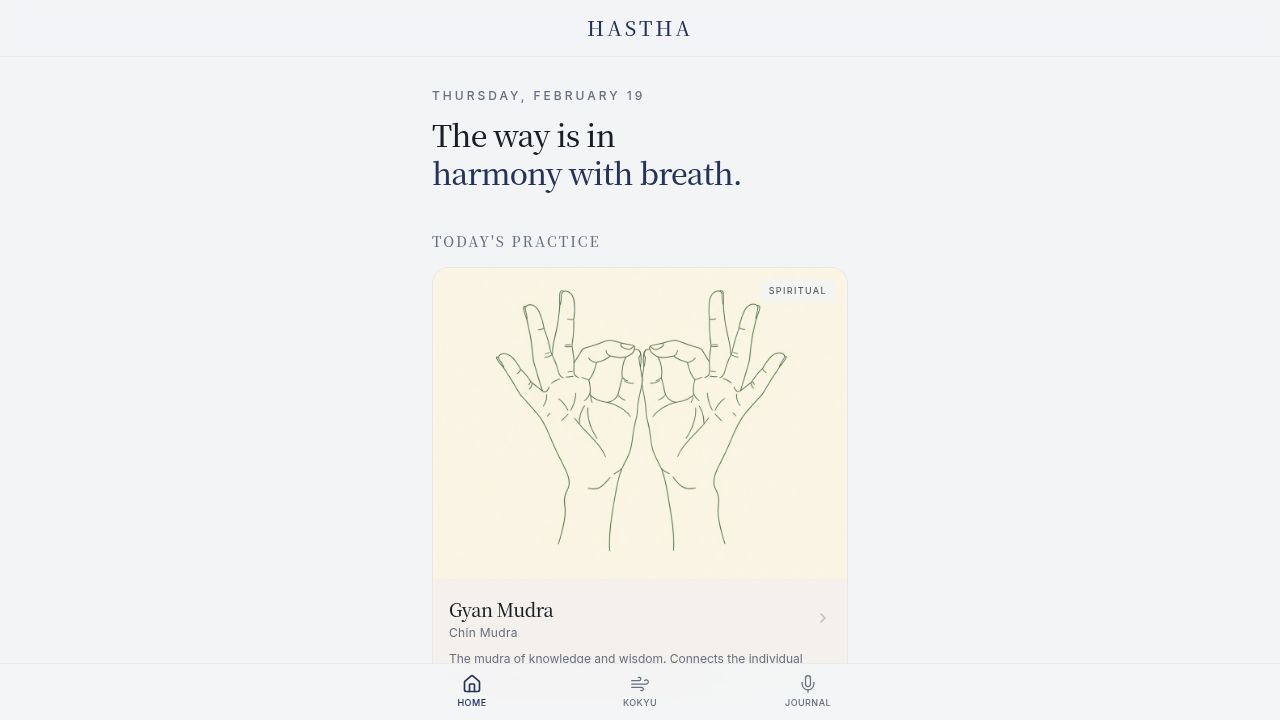
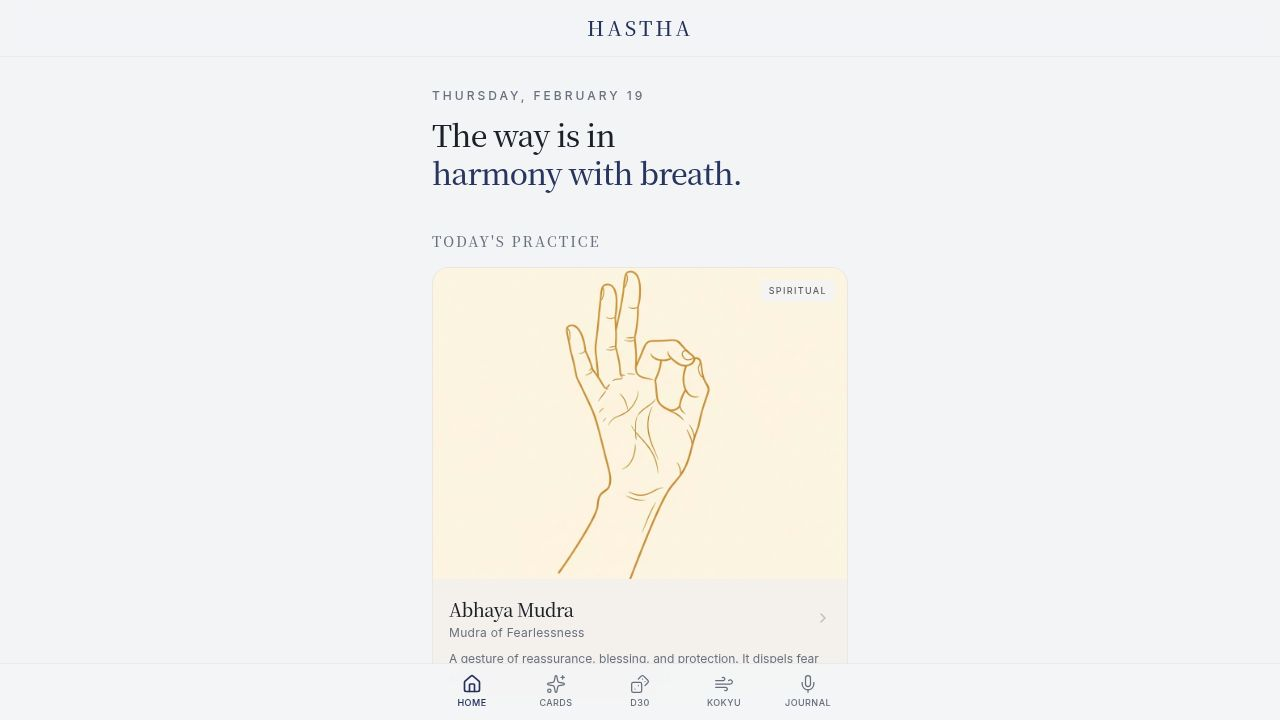
Add a playful dice rolling game with animated number effects
Introduces a new D30 dice rolling page with animated dice and numbers, including route and navigation updates, and a home screen button.

Replit-Commit-Author: Agent
Replit-Commit-Session-Id: 47a25048-172a-4b0e-a1c5-42eafa79980c
Replit-Commit-Checkpoint-Type: intermediate_checkpoint
Replit-Commit-Event-Id: 3bfcbb05-98d3-4b42-a8bc-756ac80385b9
Replit-Commit-Screenshot-Url: https://storage.googleapis.com/screenshot-production-us-central1/68716713-2074-42c7-ad7d-4be60a2e7a4c/47a25048-172a-4b0e-a1c5-42eafa79980c/P8nFYIm
Replit-Helium-Checkpoint-Created: true

Changed region(s): [[0.375, 0.3667, 0.625, 0.7944], [0.3438, 0.825, 0.5312, 0.9778], [0.5625, 0.8861, 0.625, 0.9778]]

diff --git a/client/src/pages/Dice.tsx b/client/src/pages/Dice.tsx
@@ -1,0 +1,219 @@
+import { useState, useCallback } from "react";
+import { motion, AnimatePresence } from "framer-motion";
+import { Dices } from "lucide-react";
+import { Button } from "@/components/ui/button";
+import Layout from "@/components/Layout";
+
+function D30Shape({ rolling }: { rolling: boolean }) {
+  return (
+    <motion.div
+      className="relative w-40 h-40 mx-auto"
+      animate={
+        rolling
+          ? {
+              rotateX: [0, 360, 720, 1080],
+              rotateY: [0, -180, -360, -540],
+              rotateZ: [0, 90, 180, 270],
+              scale: [1, 0.85, 1.1, 0.9, 1],
+            }
+          : {}
+      }
+      transition={{ duration: 1.6, ease: "easeInOut" }}
+      style={{ perspective: 800 }}
+    >
+      <svg viewBox="0 0 200 200" className="w-full h-full drop-shadow-lg">
+        <defs>
+          <linearGradient id="diceFace" x1="0%" y1="0%" x2="100%" y2="100%">
+            <stop offset="0%" stopColor="hsl(var(--primary))" stopOpacity="0.15" />
+            <stop offset="100%" stopColor="hsl(var(--primary))" stopOpacity="0.08" />
+          </linearGradient>
+          <linearGradient id="diceSide" x1="0%" y1="0%" x2="100%" y2="100%">
+            <stop offset="0%" stopColor="hsl(var(--primary))" stopOpacity="0.25" />
+            <stop offset="100%" stopColor="hsl(var(--primary))" stopOpacity="0.12" />
+          </linearGradient>
+        </defs>
+        <polygon
+          points="100,15 175,55 175,145 100,185 25,145 25,55"
+          fill="url(#diceFace)"
+          stroke="hsl(var(--primary))"
+          strokeWidth="1.5"
+          strokeOpacity="0.4"
+        />
+        <line x1="100" y1="15" x2="100" y2="185" stroke="hsl(var(--primary))" strokeWidth="0.5" strokeOpacity="0.15" />
+        <line x1="25" y1="55" x2="175" y2="145" stroke="hsl(var(--primary))" strokeWidth="0.5" strokeOpacity="0.15" />
+        <line x1="175" y1="55" x2="25" y2="145" stroke="hsl(var(--primary))" strokeWidth="0.5" strokeOpacity="0.15" />
+        <polygon
+          points="100,15 175,55 100,100 25,55"
+          fill="url(#diceSide)"
+          stroke="hsl(var(--primary))"
+          strokeWidth="0.5"
+          strokeOpacity="0.2"
+        />
+        <text
+          x="100"
+          y="108"
+          textAnchor="middle"
+          className="fill-primary/30 font-serif"
+          fontSize="14"
+          letterSpacing="2"
+        >
+          D30
+        </text>
+      </svg>
+    </motion.div>
+  );
+}
+
+function NumberSpread({ result, rollKey }: { result: number; rollKey: number }) {
+  const numbers = Array.from({ length: 30 }, (_, i) => i + 1);
+
+  return (
+    <div className="relative h-16 overflow-hidden mx-auto w-full max-w-[360px]">
+      <div className="absolute inset-0 pointer-events-none z-10"
+        style={{
+          background: "linear-gradient(to right, hsl(var(--background)) 0%, transparent 15%, transparent 85%, hsl(var(--background)) 100%)"
+        }}
+      />
+      <motion.div
+        className="flex items-center justify-center h-full gap-0"
+        initial={{ opacity: 0 }}
+        animate={{ opacity: 1 }}
+        transition={{ duration: 0.4 }}
+      >
+        {numbers.map((n) => {
+          const distance = Math.abs(n - result);
+          const maxDistance = 8;
+          const normalizedDistance = Math.min(distance, maxDistance) / maxDistance;
+          const opacity = Math.max(0.04, 1 - normalizedDistance * 1.1);
+          const scale = Math.max(0.5, 1 - normalizedDistance * 0.5);
+          const offsetX = (n - result) * 28;
+          const isResult = n === result;
+
+          return (
+            <motion.span
+              key={`${rollKey}-${n}`}
+              className={`absolute font-serif tabular-nums select-none ${
+                isResult ? "text-foreground font-bold" : "text-foreground/80"
+              }`}
+              style={{
+                fontSize: isResult ? "36px" : `${Math.max(12, 24 - distance * 3)}px`,
+              }}
+              initial={{
+                opacity: 0,
+                x: offsetX + (n < result ? -40 : n > result ? 40 : 0),
+                scale: 0.3,
+              }}
+              animate={{
+                opacity,
+                x: offsetX,
+                scale,
+              }}
+              transition={{
+                duration: 0.7,
+                delay: isResult ? 0 : 0.05 + distance * 0.04,
+                ease: "easeOut",
+              }}
+            >
+              {n}
+            </motion.span>
+          );
+        })}
+      </motion.div>
+    </div>
+  );
+}
+
+export default function DicePage() {
+  const [result, setResult] = useState<number | null>(null);
+  const [rolling, setRolling] = useState(false);
+  const [rollKey, setRollKey] = useState(0);
+  const [history, setHistory] = useState<number[]>([]);
+
+  const handleRoll = useCallback(() => {
+    if (rolling) return;
+    setRolling(true);
+    setResult(null);
+
+    setTimeout(() => {
+      const roll = Math.floor(Math.random() * 30) + 1;
+      setResult(roll);
+      setRollKey((k) => k + 1);
+      setHistory((h) => [roll, ...h.slice(0, 9)]);
+      setRolling(false);
+    }, 1600);
+  }, [rolling]);
+
+  return (
+    <Layout>
+      <div className="space-y-8 animate-in fade-in duration-700">
+        <div className="pt-4 pb-2 text-center">
+          <p className="text-xs text-muted-foreground uppercase tracking-[0.25em] font-medium mb-3">
+            Sacred Chance
+          </p>
+          <h2 className="text-2xl font-serif text-foreground leading-tight tracking-tight">
+            D30
+          </h2>
+          <p className="text-xs text-muted-foreground mt-2 max-w-[260px] mx-auto leading-relaxed">
+            Let go of intention. Roll the die and receive your number.
+          </p>
+        </div>
+
+        <div className="min-h-[80px] flex items-center justify-center">
+          <AnimatePresence mode="wait">
+            {result && !rolling && (
+              <NumberSpread result={result} rollKey={rollKey} />
+            )}
+          </AnimatePresence>
+          {!result && !rolling && (
+            <p className="text-xs text-muted-foreground italic">
+              Roll the die to receive your number.
+            </p>
+          )}
+          {rolling && (
+            <motion.div
+              className="flex items-center gap-2 text-muted-foreground"
+              animate={{ opacity: [0.4, 1, 0.4] }}
+              transition={{ duration: 0.8, repeat: Infinity }}
+            >
+              <span className="text-xs uppercase tracking-[0.2em]">Rolling...</span>
+            </motion.div>
+          )}
+        </div>
+
+        <D30Shape rolling={rolling} />
+
+        <div className="flex justify-center">
+          <Button
+            onClick={handleRoll}
+            disabled={rolling}
+            className="gap-2 px-8"
+            data-testid="button-roll-dice"
+          >
+            <Dices className="w-4 h-4" />
+            {rolling ? "Rolling..." : result ? "Roll Again" : "Roll the Die"}
+          </Button>
+        </div>
+
+        {history.length > 1 && (
+          <div className="text-center space-y-2">
+            <h3 className="text-[10px] uppercase tracking-[0.2em] text-muted-foreground font-medium">
+              Recent Rolls
+            </h3>
+            <div className="flex items-center justify-center gap-3 flex-wrap">
+              {history.slice(1).map((n, i) => (
+                <motion.span
+                  key={`h-${i}-${n}`}
+                  initial={{ opacity: 0, scale: 0.5 }}
+                  animate={{ opacity: Math.max(0.2, 1 - i * 0.1), scale: 1 }}
+                  className="text-sm font-serif text-muted-foreground tabular-nums"
+                >
+                  {n}
+                </motion.span>
+              ))}
+            </div>
+          </div>
+        )}
+      </div>
+    </Layout>
+  );
+}

diff --git a/client/src/pages/Home.tsx b/client/src/pages/Home.tsx
@@ -38,7 +38,7 @@ export default function Home() {
           ) : null}
         </section>
 
-        <section className="grid grid-cols-3 gap-3">
+        <section className="grid grid-cols-2 gap-3">
           <Link href="/angel-cards" className="group bg-card hover:bg-primary/5 transition-all duration-300 p-5 rounded-lg flex flex-col items-center text-center gap-3 border border-border/50 hover:border-primary/20" data-testid="link-angel-cards">
               <div className="w-10 h-10 rounded-full bg-primary/8 text-primary flex items-center justify-center">
                 <svg width="20" height="20" viewBox="0 0 24 24" fill="none" stroke="currentColor" strokeWidth="1.5">
@@ -48,6 +48,23 @@ export default function Home() {
               <div>
                 <span className="block text-sm font-medium text-foreground">Cards</span>
                 <span className="text-[10px] text-muted-foreground tracking-wide">Guidance</span>
+              </div>
+          </Link>
+
+          <Link href="/dice" className="group bg-card hover:bg-primary/5 transition-all duration-300 p-5 rounded-lg flex flex-col items-center text-center gap-3 border border-border/50 hover:border-primary/20" data-testid="link-dice">
+              <div className="w-10 h-10 rounded-full bg-primary/8 text-primary flex items-center justify-center">
+                <svg width="20" height="20" viewBox="0 0 24 24" fill="none" stroke="currentColor" strokeWidth="1.5">
+                  <rect x="2" y="2" width="20" height="20" rx="3" />
+                  <circle cx="8" cy="8" r="1.5" fill="currentColor" />
+                  <circle cx="16" cy="8" r="1.5" fill="currentColor" />
+                  <circle cx="12" cy="12" r="1.5" fill="currentColor" />
+                  <circle cx="8" cy="16" r="1.5" fill="currentColor" />
+                  <circle cx="16" cy="16" r="1.5" fill="currentColor" />
+                </svg>
+              </div>
+              <div>
+                <span className="block text-sm font-medium text-foreground">D30</span>
+                <span className="text-[10px] text-muted-foreground tracking-wide">Sacred Chance</span>
               </div>
           </Link>
 

diff --git a/client/src/components/Layout.tsx b/client/src/components/Layout.tsx
@@ -1,5 +1,5 @@
 import { Link, useLocation } from "wouter";
-import { Home, Mic, Wind, Sparkles } from "lucide-react";
+import { Home, Mic, Wind, Sparkles, Dices } from "lucide-react";
 import { cn } from "@/lib/utils";
 
 export default function Layout({ children }: { children: React.ReactNode }) {
@@ -8,6 +8,7 @@ export default function Layout({ children }: { children: React.ReactNode }) {
   const navItems = [
     { href: "/", icon: Home, label: "Home" },
     { href: "/angel-cards", icon: Sparkles, label: "Cards" },
+    { href: "/dice", icon: Dices, label: "D30" },
     { href: "/breathe", icon: Wind, label: "Kokyu" },
     { href: "/journal", icon: Mic, label: "Journal" },
   ];

diff --git a/client/src/App.tsx b/client/src/App.tsx
@@ -7,6 +7,7 @@ import Home from "@/pages/Home";
 import Journal from "@/pages/Journal";
 import Breathe from "@/pages/Breathe";
 import AngelCards from "@/pages/AngelCards";
+import Dice from "@/pages/Dice";
 import MudraDetail from "@/pages/MudraDetail";
 
 function Router() {
@@ -14,6 +15,7 @@ function Router() {
     <Switch>
       <Route path="/" component={Home} />
       <Route path="/angel-cards" component={AngelCards} />
+      <Route path="/dice" component={Dice} />
       <Route path="/journal" component={Journal} />
       <Route path="/breathe" component={Breathe} />
       <Route path="/mudra/:id" component={MudraDetail} />
